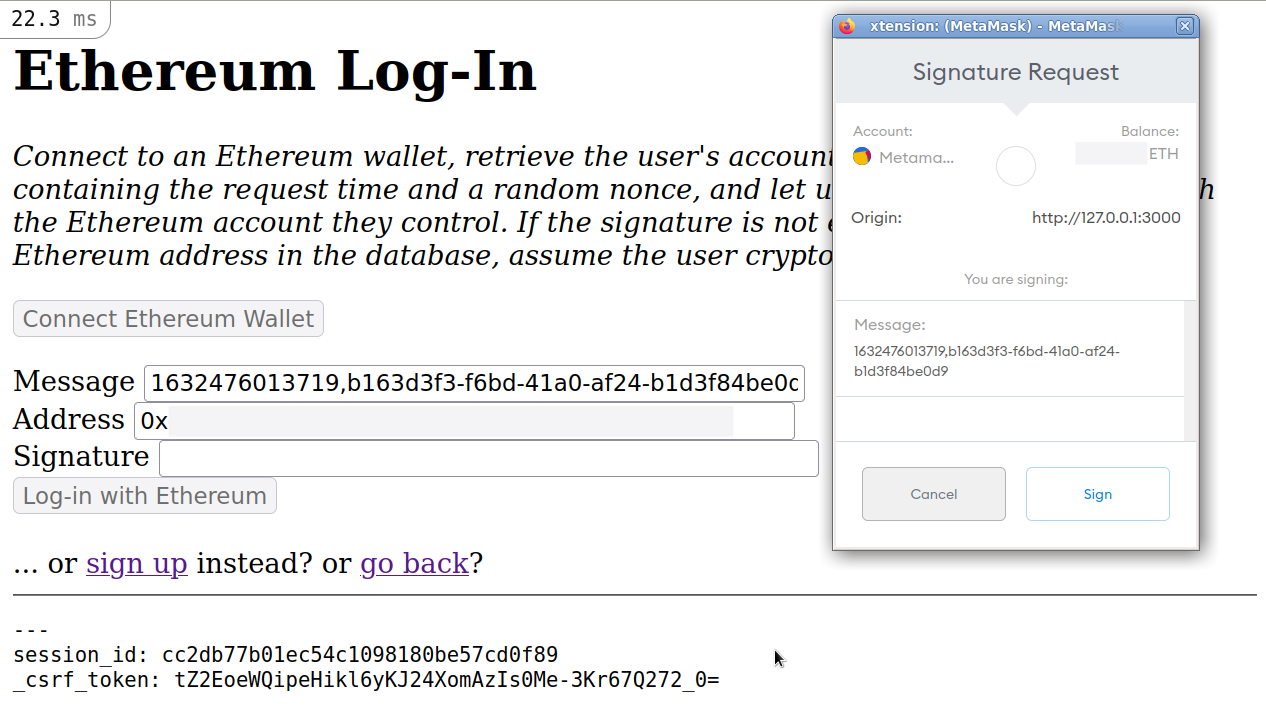
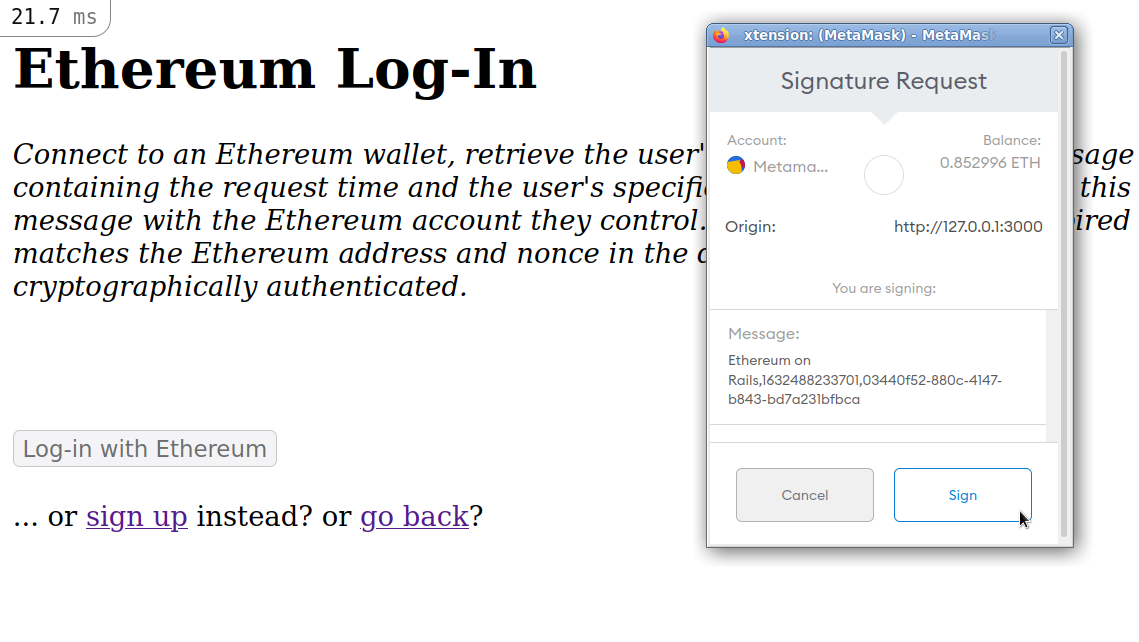
docs: add how-to section to readme

diff --git a/README.md b/README.md
@@ -1,11 +1,6 @@
 # README
 
-Ethereum on Rails MVP:
-* User model with `:eth_address` and `:eth_nonce`
-* Create account with `:eth_address` requested from Ethereum wallet (MetaMask)
-* Sign in to existing account by signing `:eth_nonce` with `:eth_address` in an Ethereum wallet
-* ...
-* _Profit!_
+Ethereum on Rails MVP: allow sign-up and log-in with Ethereum wallet (e.g., MetaMask browser extension).
 
 ![Screenshot of the log-in page](./img/screenshot.png)
 
@@ -32,5 +27,83 @@ gem install bundler rails
 nvm use stable
 bundle install
 bin/rails webpacker:install
+bin/rails db:migrate
 bin/rails server
 ```
+
+### How it works
+
+##### Model: `User`
+
+The user contains three attributes: `username`, `eth_address`, `eth_nonce`.
+- The Name provides a pretty identity.
+- The Address is the unique identifier used for authentiation.
+- The Nonce is a random `UUID` that has to be signed for authentiation.
+
+In this MVP, all three fields are mandatory and have to be unique.
+
+##### Controller: `Users{#new,#create}`
+
+The users controller is solely used for creating new users.
+- It generates an initial random nonce with `SecureRandom.uuid`.
+- It ensures the user picks a name.
+- It takes the `eth_address` from the sign-up view (see below).
+- It ensures the `eth_address` is a valid Ethereum address.
+- It creates a new user and saves it to the database with the given attributes.
+
+##### View: `Users#new`
+
+The `Users#new` view is the sign-up page to create a new account.
+- It contains a field for the user to choose a name.
+- It contains a read-only, hidden field that will be populated with the user's Ethereum address.
+- It contains a `Connect` button to establish a connection with the Ethereum provider.
+
+The JavaScript pack `users_new.js` contains the frontend logic to establish a connection with an Ethereum wallet.
+- It hides read-only fields.
+- It ensures an Ethereum context is available.
+- It adds an click-event listener to the connect button.
+- It requests accounts from the available Ethereum wallet: `method: 'eth_requestAccounts'`
+- It adds the `eth_address` to the form and submits it.
+
+##### Controller: `Sessions{#new,#create,#destroy}`
+
+The sessions controller manages the user authentication (login/logout).
+- It finds the user by `eth_address` provided by Ethereum wallet.
+- It ensures user exists in database.
+- It ensures user signed a message to authenticate.
+- It ensures the signature is not expired (older than 5 minutes).
+- It ensures the signed nonce matches with our database.
+- It recovers the pubkey and address from the signature.
+- It ensures the recovered address matches the address in the database.
+- It logs the user in if all the above is true.
+- If generates a new nonce for future logins if all of the above is true.
+
+It also handles destroying sessions to log users out.
+
+The JavaScript pack `sessions_new.js` contains the frontend logic to authenticate a user with an Ethereum account.
+- It hides all the read-only fields.
+- It ensures an Ethereum context is available.
+- It adds a click-event listener to the connect button.
+- It requests accounts from the available Ethereum wallet: `method: 'eth_requestAccounts'`
+- It requests the nonce belonging to the account from the API/v1 (see below): `fetch("/api/v1/users/" + account)`
+- It generates a message containing the site's title, the request time, and the nonce from the API.
+- It requests the user to sign the message: `method: 'personal_sign', params: [ message, account ]`
+- It populates the form with address, message, and signature and submits it.
+
+##### API: `/api/v1/users{#index,#show}`
+
+To prevent signature spoofing, the user needs to sign a specific piece of information we can verify in the backend rather than a random message. The `User` model contains an `eth_nonce` field that gets filled with a random UUID on first sign-up and gets rotated on every successful login.
+
+The `#index` controller explicitly returns `nil` to prevent accessing the full set of users from the database.
+- GET `/api/v1/users`, returns `null`
+
+The `#show` controller gets a user by `eth_address` from the database and returns the `eth_nonce` or `nil` if it does not exist.
+- GET `/api/v1/users/${eth_account}`
+- It ensures the `eth_account` parameter is a valid Ethereum address to filter out seemingly random requests.
+- It finds a user in database by `eth_account` key.
+- It returns _only_ the `eth_nonce` as JSON.
+- It returns `null` if it fails in any step above.
+
+### Credits
+
+This Rails application implements the logic described by Amaury Martiny in [One-click Login with Blockchain: A MetaMask Tutorial](https://www.toptal.com/ethereum/one-click-login-flows-a-metamask-tutorial) - brilliant, though slightly outdated, resource! Thanks for that.
